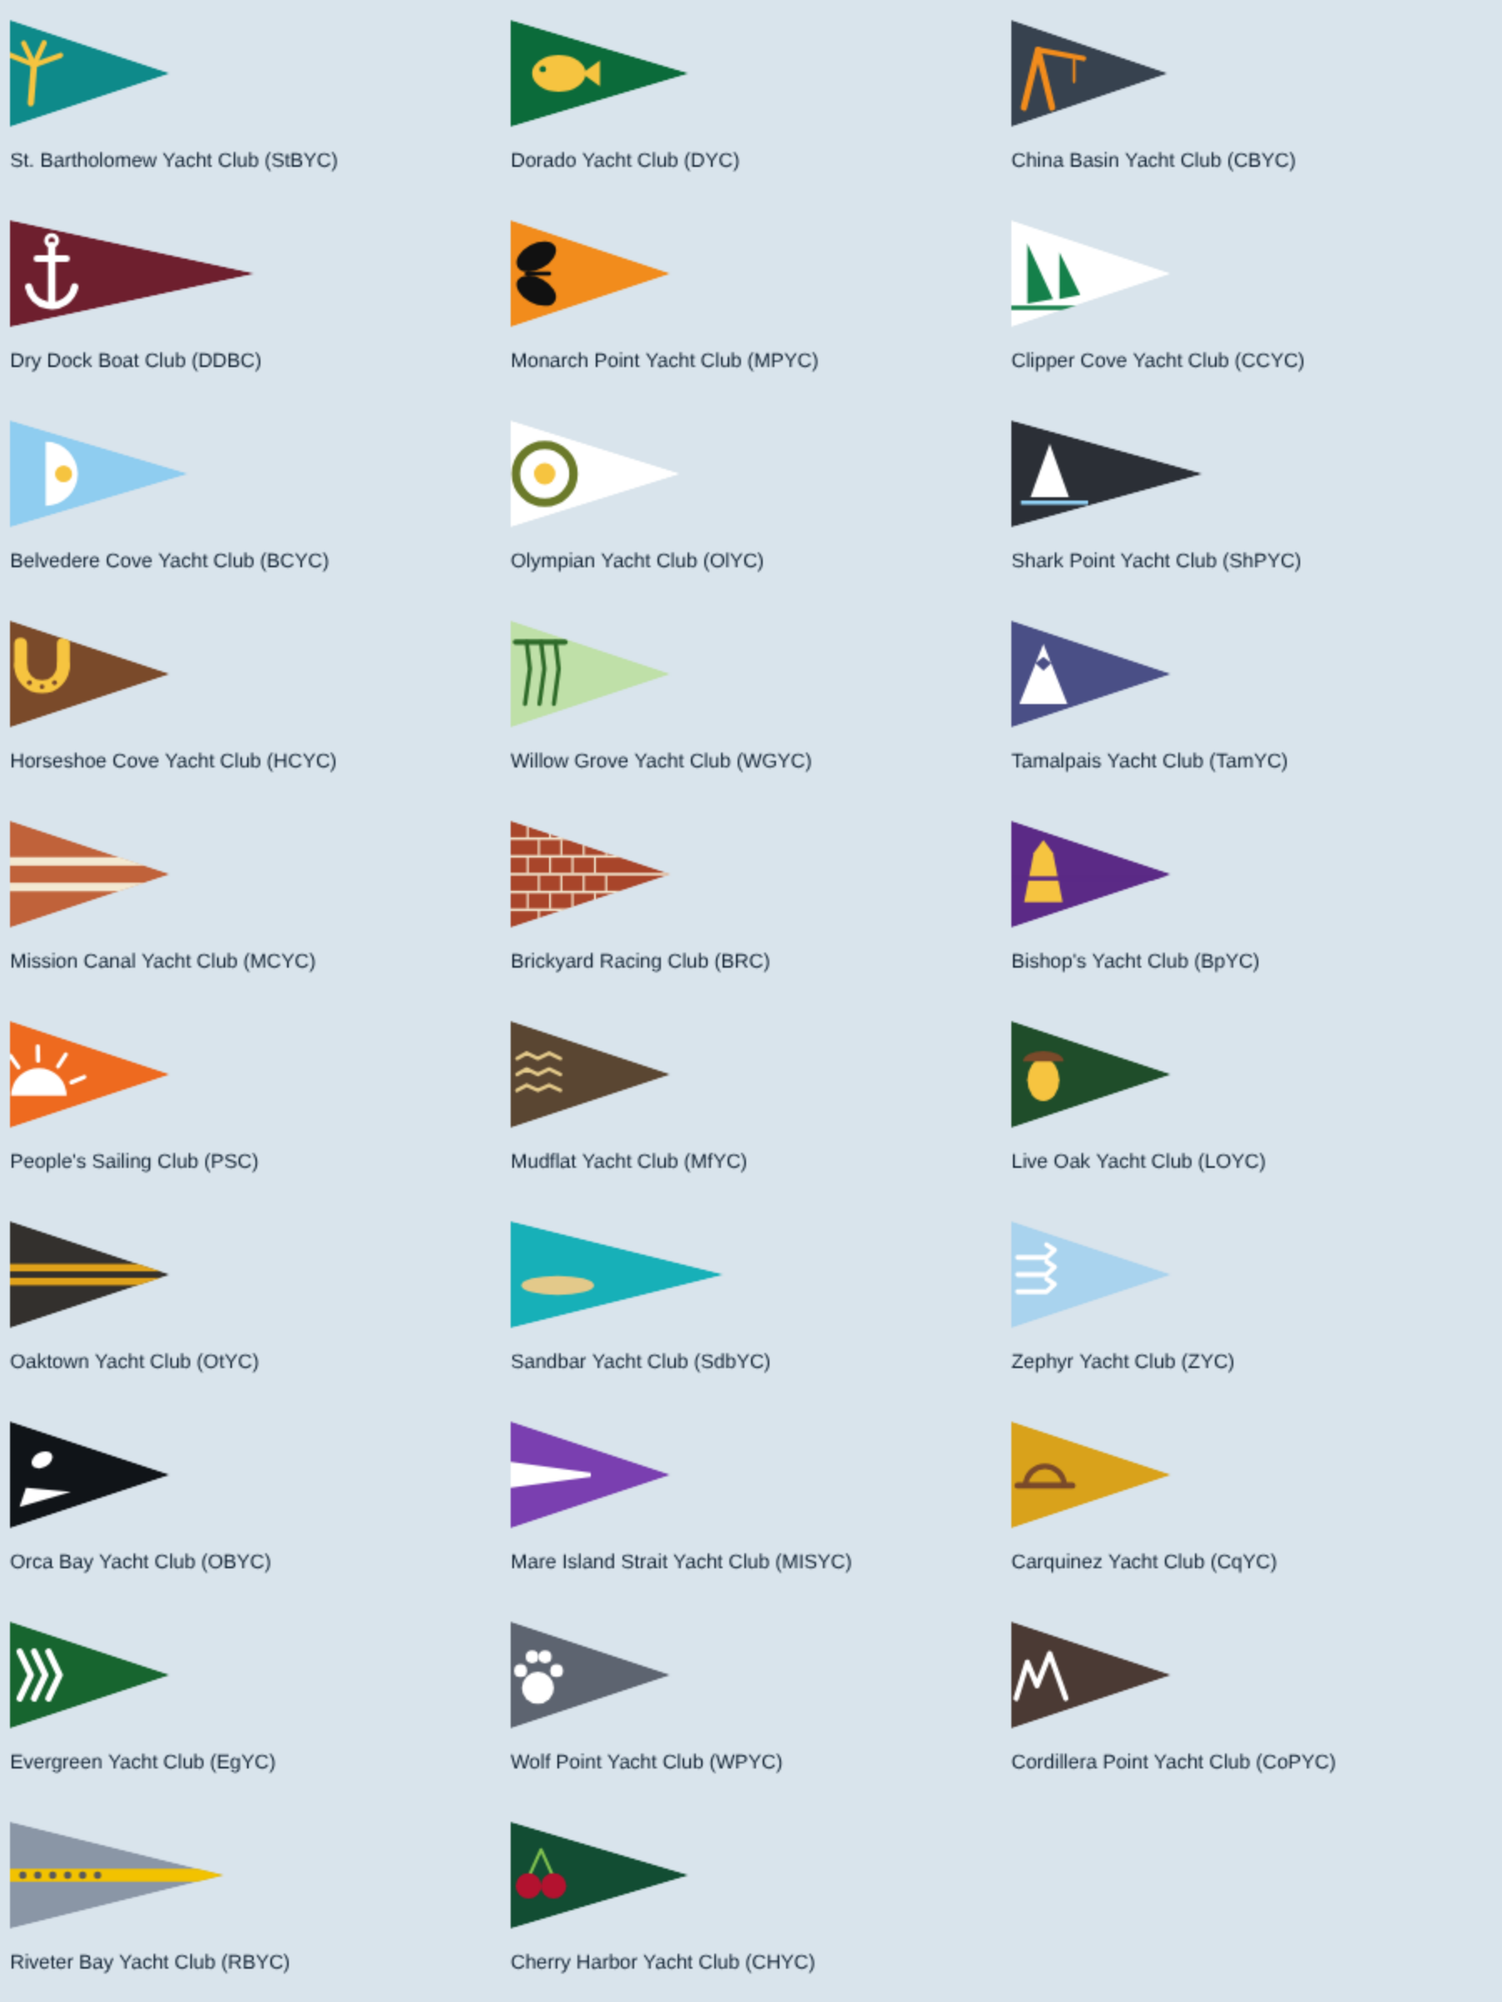
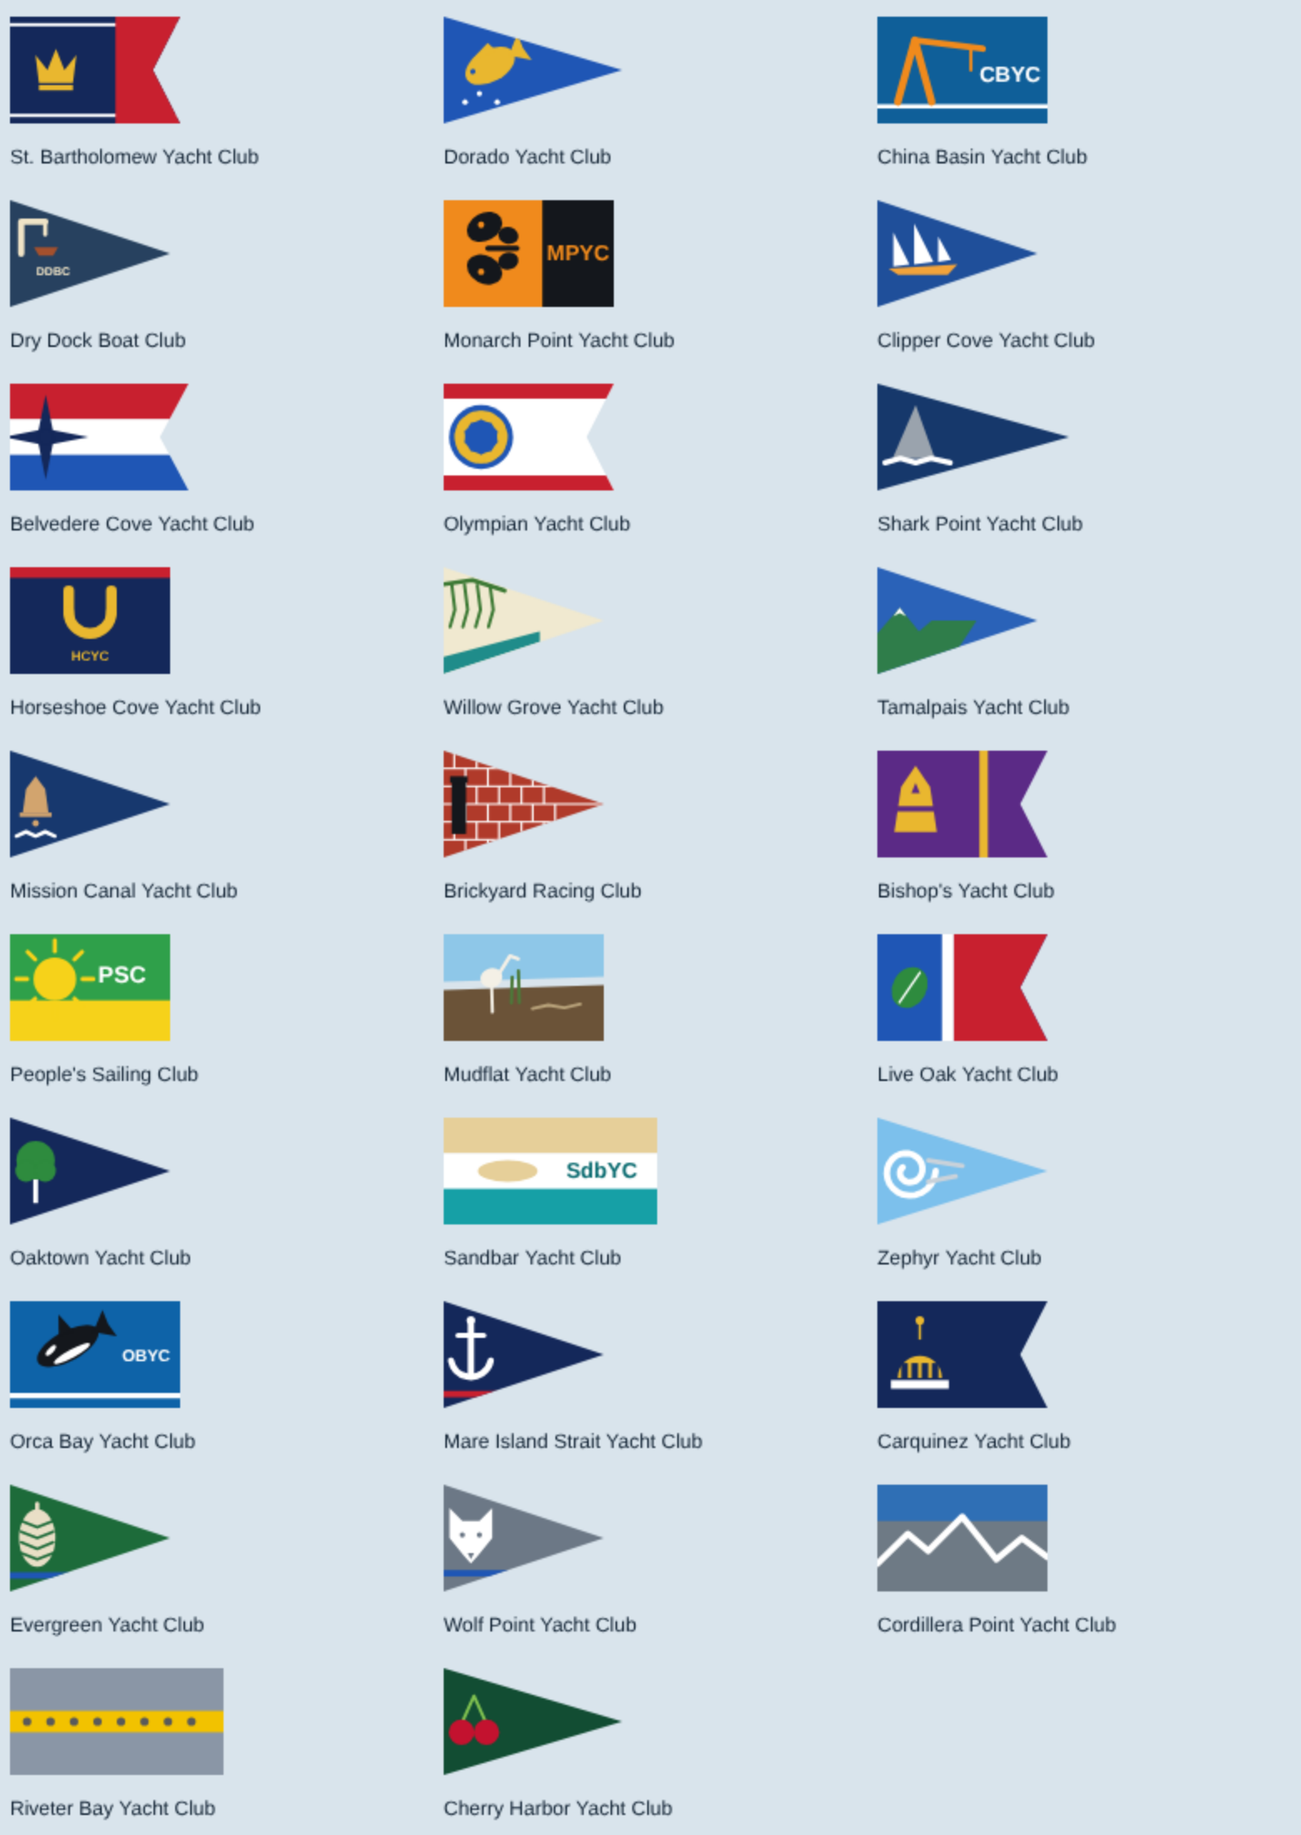
Clubs: parody burgees to the owner's style guide (swallowtails for the classic clubs, rectangles for the modern); in their own file, not yet flown
Claude-Session: https://claude.ai/code/session_012Uu5QjYRsEpBxuz7xgHWhs

Changed region(s): [[0.0, 0.0, 0.2154, 0.9891], [0.3385, 0.0, 0.5538, 0.9891], [0.6462, 0.0, 0.8923, 0.8964]]

diff --git a/src/render/burgeeArt.ts b/src/render/burgeeArt.ts
@@ -1,0 +1,90 @@
+import type { Burgee } from './burgees';
+
+/**
+ * The parody burgees (the owner's brief, 17 Nov 2026: the Burgee style guide and each club's guidance): nods to a club's
+ * age and character, never copies of the real burgee, and none of its initials or devices. The era sets the shape and
+ * palette (classic: swallowtail, red/white/blue; established: triangle; mid-century: swept, wider palette; modern: a
+ * rectangle, bold colors), two or three colors and one clear charge so each reads on a masthead and as a map icon. Initials
+ * are the parody name's, never a real club's. Not yet in BURGEES (render/burgees.ts): they go in when the owner approves.
+ */
+type G = CanvasRenderingContext2D; type P = [number, number];
+const WHITE = '#ffffff', GOLD = '#e9b72f', BLACK = '#14171c', NAVY = '#14285a', RED = '#c8202f', BLUE = '#1f56b5';
+const poly = (g: G, c: string, ...p: P[]) => { g.fillStyle = c; g.beginPath(); p.forEach(([x, y], i) => i ? g.lineTo(x, y) : g.moveTo(x, y)); g.closePath(); g.fill(); };
+const rect = (g: G, c: string, x: number, y: number, w: number, h: number) => { g.fillStyle = c; g.fillRect(x, y, w, h); };
+const fill = (g: G, W: number, H: number, c: string) => rect(g, c, 0, 0, W, H);
+const dot = (g: G, c: string, x: number, y: number, r: number) => { g.fillStyle = c; g.beginPath(); g.arc(x, y, r, 0, 7); g.fill(); };
+const oval = (g: G, c: string, x: number, y: number, rx: number, ry: number, rot = 0) => { g.fillStyle = c; g.beginPath(); g.ellipse(x, y, rx, ry, rot, 0, 7); g.fill(); };
+const stroke = (g: G, c: string, w: number, ...p: P[]) => { g.strokeStyle = c; g.lineWidth = w; g.lineJoin = 'round'; g.lineCap = 'round'; g.beginPath(); p.forEach(([x, y], i) => i ? g.lineTo(x, y) : g.moveTo(x, y)); g.stroke(); };
+const arc = (g: G, c: string, w: number, x: number, y: number, r: number, a0: number, a1: number) => { g.strokeStyle = c; g.lineWidth = w; g.lineCap = 'round'; g.beginPath(); g.arc(x, y, r, a0, a1); g.stroke(); };
+const txt = (g: G, c: string, s: string, x: number, y: number, size: number) => { g.fillStyle = c; g.font = `bold ${Math.round(size)}px sans-serif`; g.textAlign = 'center'; g.textBaseline = 'middle'; g.fillText(s, x, y); };
+
+export const PARODY_BURGEES: Burgee[] = [
+  // ---- Tier 1 · San Francisco city front
+  { id: 'stfyc', shape: 'swallow', ratio: 1.6, // classic, prestige: navy, white, red, gold; one formal charge, no initials
+    draw: (g, W, H) => { fill(g, W, H, NAVY); rect(g, WHITE, 0, H * 0.06, W, H * 0.03); rect(g, WHITE, 0, H * 0.91, W, H * 0.03); rect(g, RED, W * 0.62, 0, W * 0.38, H);
+      poly(g, GOLD, [W * 0.17, H * 0.62], [W * 0.15, H * 0.36], [W * 0.22, H * 0.5], [W * 0.27, H * 0.3], [W * 0.32, H * 0.5], [W * 0.39, H * 0.36], [W * 0.37, H * 0.62]); rect(g, GOLD, W * 0.17, H * 0.64, W * 0.2, H * 0.05); } },
+  { id: 'ggyc', shape: 'pennant', ratio: 1.67, // scrappy: blue and gold, a leaping dorado, a splash
+    draw: (g, W, H) => { fill(g, W, H, BLUE); const x = W * 0.26, y = H * 0.46; g.save(); g.translate(x, y); g.rotate(-0.5);
+      oval(g, GOLD, 0, 0, W * 0.15, H * 0.15); poly(g, GOLD, [W * 0.12, 0], [W * 0.22, -H * 0.14], [W * 0.21, 0], [W * 0.22, H * 0.14]); poly(g, GOLD, [-W * 0.08, -H * 0.13], [W * 0.05, -H * 0.2], [W * 0.07, -H * 0.1]); dot(g, BLUE, -W * 0.1, -H * 0.03, H * 0.025); g.restore();
+      for (const [dx, dy] of [[0.12, 0.8], [0.2, 0.72], [0.3, 0.8]] as P[]) dot(g, WHITE, W * dx, H * dy, H * 0.025); } },
+  { id: 'sbyc', shape: 'rect', ratio: 1.6, // modern urban: harbor blue, orange, a crane, initials
+    draw: (g, W, H) => { fill(g, W, H, '#0f5f99'); rect(g, WHITE, 0, H * 0.82, W, H * 0.04); stroke(g, '#f08a1c', H * 0.07, [W * 0.12, H * 0.8], [W * 0.22, H * 0.22], [W * 0.32, H * 0.8]); stroke(g, '#f08a1c', H * 0.06, [W * 0.22, H * 0.22], [W * 0.62, H * 0.3]); stroke(g, '#f08a1c', H * 0.03, [W * 0.55, H * 0.29], [W * 0.55, H * 0.5]); txt(g, WHITE, 'CBYC', W * 0.78, H * 0.55, H * 0.2); } },
+  { id: 'bvbc', shape: 'pennant', ratio: 1.5, // working waterfront: faded dark blue, rust, cream; a dry-dock crane, hand-painted initials
+    draw: (g, W, H) => { fill(g, W, H, '#27415f'); stroke(g, '#efe3c6', H * 0.06, [W * 0.07, H * 0.5], [W * 0.07, H * 0.2], [W * 0.22, H * 0.2]); stroke(g, '#efe3c6', H * 0.04, [W * 0.22, H * 0.2], [W * 0.22, H * 0.32]); poly(g, '#a4502d', [W * 0.15, H * 0.44], [W * 0.3, H * 0.44], [W * 0.27, H * 0.52], [W * 0.18, H * 0.52]); txt(g, '#efe3c6', 'DDBC', W * 0.27, H * 0.68, H * 0.11); } },
+  { id: 'mhpyc', shape: 'rect', ratio: 1.6, // modern: orange and black, a stylized butterfly (offset), initials
+    draw: (g, W, H) => { fill(g, W, H, '#f08a1c'); rect(g, BLACK, W * 0.58, 0, W * 0.42, H); const x = W * 0.3, y = H * 0.45; for (const s of [-1, 1]) { oval(g, BLACK, x - W * 0.06, y + s * H * 0.2, W * 0.11, H * 0.13, s * 0.5); oval(g, BLACK, x + W * 0.08, y + s * H * 0.12, W * 0.06, H * 0.08, -s * 0.3); dot(g, '#f08a1c', x - W * 0.08, y + s * H * 0.22, H * 0.03); } stroke(g, BLACK, H * 0.05, [x - W * 0.04, y], [x + W * 0.13, y]); txt(g, '#f08a1c', 'MPYC', W * 0.79, H * 0.5, H * 0.2); } },
+  { id: 'tiyc', shape: 'pennant', ratio: 1.5, // small and friendly: blue and white, a clipper under sail, one warm accent
+    draw: (g, W, H) => { fill(g, W, H, '#1f4f9a'); poly(g, WHITE, [W * 0.1, H * 0.62], [W * 0.1, H * 0.3], [W * 0.2, H * 0.6]); poly(g, WHITE, [W * 0.23, H * 0.6], [W * 0.23, H * 0.22], [W * 0.35, H * 0.58]); poly(g, WHITE, [W * 0.38, H * 0.58], [W * 0.38, H * 0.34], [W * 0.46, H * 0.56]); poly(g, '#f2a33a', [W * 0.07, H * 0.64], [W * 0.5, H * 0.6], [W * 0.44, H * 0.7], [W * 0.13, H * 0.7]); } },
+  // ---- Marin
+  { id: 'sfyc', shape: 'swallow', ratio: 1.67, // the reference classic: strict red, white, blue; a compass rose; no initials
+    draw: (g, W, H) => { rect(g, RED, 0, 0, W, H / 3); rect(g, WHITE, 0, H / 3, W, H / 3); rect(g, BLUE, 0, H * 2 / 3, W, H / 3); const x = W * 0.2, y = H / 2;
+      for (let i = 0; i < 4; i++) { const a = i * Math.PI / 2, u = [Math.sin(a), -Math.cos(a)], v = [-u[1], u[0]]; poly(g, NAVY, [x + u[0] * H * 0.4, y + u[1] * H * 0.4], [x + v[0] * H * 0.08, y + v[1] * H * 0.08], [x - v[0] * H * 0.08, y - v[1] * H * 0.08]); } dot(g, NAVY, x, y, H * 0.07); } },
+  { id: 'cyc', shape: 'swallow', ratio: 1.6, // classic: red, white, blue with gold; a laurel wreath
+    draw: (g, W, H) => { fill(g, W, H, WHITE); rect(g, RED, 0, 0, W, H * 0.14); rect(g, RED, 0, H * 0.86, W, H * 0.14); dot(g, BLUE, W * 0.22, H / 2, H * 0.3);
+      for (let i = 0; i < 10; i++) { const a = i / 10 * Math.PI * 2; oval(g, GOLD, W * 0.22 + Math.cos(a) * H * 0.2, H / 2 + Math.sin(a) * H * 0.2, H * 0.1, H * 0.05, a + Math.PI / 2); } } },
+  { id: 'tyc', shape: 'pennant', ratio: 1.8, // mid-century: deep blue and gray, a shark's fin cutting the water
+    draw: (g, W, H) => { fill(g, W, H, '#16386b'); poly(g, '#9aa3ad', [W * 0.08, H * 0.7], [W * 0.2, H * 0.2], [W * 0.3, H * 0.7]); stroke(g, WHITE, H * 0.05, [W * 0.04, H * 0.74], [W * 0.12, H * 0.7], [W * 0.2, H * 0.74], [W * 0.28, H * 0.7], [W * 0.38, H * 0.74]); } },
+  { id: 'pyc', shape: 'rect', ratio: 1.5, // modern-formal: navy, gold, a touch of red; a horseshoe, symmetrical; initials
+    draw: (g, W, H) => { fill(g, W, H, NAVY); rect(g, RED, 0, 0, W, H * 0.1); const x = W * 0.5, y = H * 0.42, r = H * 0.2; stroke(g, GOLD, H * 0.1, [x - r, y - H * 0.2], [x - r, y]); stroke(g, GOLD, H * 0.1, [x + r, y - H * 0.2], [x + r, y]); arc(g, GOLD, H * 0.1, x, y, r, 0, Math.PI); txt(g, GOLD, 'HCYC', x, H * 0.84, H * 0.13); } },
+  { id: 'ssyc', shape: 'pennant', ratio: 1.5, // artsy: willow green, teal, cream; a drooping willow branch
+    draw: (g, W, H) => { fill(g, W, H, '#f0e9d0'); poly(g, '#1f8c8a', [0, H], [W * 0.6, H * 0.7], [W * 0.6, H * 0.6], [0, H * 0.84]); stroke(g, '#3d7a35', H * 0.04, [0, H * 0.16], [W * 0.18, H * 0.12], [W * 0.38, H * 0.22]); for (const x of [0.05, 0.13, 0.21, 0.29]) stroke(g, '#3d7a35', H * 0.03, [W * x, H * (0.15 + x * 0.1)], [W * (x + 0.02), H * 0.4], [W * (x - 0.01), H * 0.56]); } },
+  { id: 'myc', shape: 'pennant', ratio: 1.5, // established: blue, white and mountain green; a mountain
+    draw: (g, W, H) => { fill(g, W, H, '#2a62b8'); poly(g, '#2f7d4a', [0, H], [0, H * 0.62], [W * 0.14, H * 0.38], [W * 0.26, H * 0.6], [W * 0.34, H * 0.5], [W * 0.62, H * 0.5], [W * 0.4, H]); poly(g, WHITE, [W * 0.1, H * 0.46], [W * 0.14, H * 0.38], [W * 0.18, H * 0.46], [W * 0.14, H * 0.43]); } },
+  { id: 'sryc', shape: 'pennant', ratio: 1.5, // quiet: deep blue, white, a sandstone bell over a canal ripple
+    draw: (g, W, H) => { fill(g, W, H, '#17386e'); poly(g, '#d2a46e', [W * 0.08, H * 0.58], [W * 0.1, H * 0.36], [W * 0.16, H * 0.24], [W * 0.22, H * 0.36], [W * 0.24, H * 0.58]); rect(g, '#d2a46e', W * 0.06, H * 0.58, W * 0.2, H * 0.04); dot(g, '#d2a46e', W * 0.16, H * 0.68, H * 0.03); stroke(g, WHITE, H * 0.035, [W * 0.04, H * 0.8], [W * 0.1, H * 0.76], [W * 0.16, H * 0.8], [W * 0.22, H * 0.76], [W * 0.28, H * 0.8]); } },
+  // ---- East Bay
+  { id: 'ryc', shape: 'pennant', ratio: 1.5, // DIY: brick red, white, black; bricks and a kiln chimney
+    draw: (g, W, H) => { fill(g, W, H, '#b03a2a'); for (let r = 1; r < 6; r++) rect(g, WHITE, 0, H * r / 6 - H * 0.008, W, H * 0.016); for (let r = 0; r < 6; r++) for (let c = 0; c < 5; c++) rect(g, WHITE, W * (0.06 + c * 0.14 + (r % 2) * 0.07), H * r / 6, W * 0.012, H / 6); rect(g, BLACK, W * 0.05, H * 0.28, W * 0.09, H * 0.5); rect(g, BLACK, W * 0.04, H * 0.24, W * 0.11, H * 0.06); } },
+  { id: 'byc', shape: 'swallow', ratio: 1.6, // classic with a wink: purple and gold; a bishop's mitre
+    draw: (g, W, H) => { fill(g, W, H, '#5b2a86'); rect(g, GOLD, W * 0.6, 0, W * 0.05, H); poly(g, GOLD, [W * 0.1, H * 0.76], [W * 0.14, H * 0.34], [W * 0.225, H * 0.14], [W * 0.31, H * 0.34], [W * 0.35, H * 0.76]); rect(g, '#5b2a86', W * 0.1, H * 0.52, W * 0.25, H * 0.05); poly(g, '#5b2a86', [W * 0.225, H * 0.3], [W * 0.25, H * 0.4], [W * 0.2, H * 0.4]); } },
+  { id: 'csc', shape: 'rect', ratio: 1.5, // modern co-op: bright green and yellow, a sun; initials
+    draw: (g, W, H) => { fill(g, W, H, '#2fa04a'); rect(g, '#f6d21a', 0, H * 0.62, W, H * 0.38); dot(g, '#f6d21a', W * 0.28, H * 0.42, H * 0.2); for (let i = 0; i < 8; i++) { const a = i / 8 * Math.PI * 2; stroke(g, '#f6d21a', H * 0.04, [W * 0.28 + Math.cos(a) * H * 0.26, H * 0.42 + Math.sin(a) * H * 0.26], [W * 0.28 + Math.cos(a) * H * 0.36, H * 0.42 + Math.sin(a) * H * 0.36]); } txt(g, WHITE, 'PSC', W * 0.7, H * 0.4, H * 0.22); } },
+  { id: 'emyc', shape: 'rect', ratio: 1.5, // small, informal, a little crooked: mud brown, reed green, sky blue; a wading bird
+    draw: (g, W, H) => { g.save(); g.translate(W / 2, H / 2); g.rotate(-0.03); g.translate(-W / 2, -H / 2); rect(g, '#8ec7e8', -5, -5, W + 10, H * 0.5); rect(g, '#6b5338', -5, H * 0.5, W + 10, H * 0.6); const x = W * 0.3; stroke(g, '#4c7a3a', H * 0.03, [x + W * 0.12, H * 0.64], [x + W * 0.13, H * 0.4]); stroke(g, '#4c7a3a', H * 0.03, [x + W * 0.17, H * 0.64], [x + W * 0.17, H * 0.34]); oval(g, '#f4f0e6', x, H * 0.4, W * 0.07, H * 0.09, -0.3); stroke(g, '#f4f0e6', H * 0.035, [x + W * 0.05, H * 0.36], [x + W * 0.12, H * 0.2], [x + W * 0.17, H * 0.23]); stroke(g, '#f4f0e6', H * 0.03, [x, H * 0.48], [x, H * 0.72]); stroke(g, '#b8a27a', H * 0.03, [W * 0.55, H * 0.7], [W * 0.65, H * 0.67], [W * 0.75, H * 0.7], [W * 0.85, H * 0.67]); g.restore(); } },
+  { id: 'eyc', shape: 'swallow', ratio: 1.6, // classic: red, white and blue, one green oak leaf
+    draw: (g, W, H) => { fill(g, W, H, BLUE); rect(g, WHITE, W * 0.38, 0, W * 0.07, H); rect(g, RED, W * 0.45, 0, W * 0.55, H); oval(g, '#2e8b3e', W * 0.19, H / 2, W * 0.1, H * 0.2, 0.5); stroke(g, '#fff', H * 0.02, [W * 0.13, H * 0.64], [W * 0.25, H * 0.36]); } },
+  { id: 'oyc', shape: 'pennant', ratio: 1.5, // established: navy, white and green; a stylized oak tree
+    draw: (g, W, H) => { fill(g, W, H, NAVY); rect(g, WHITE, W * 0.145, H * 0.5, W * 0.03, H * 0.3); dot(g, '#2e8b3e', W * 0.16, H * 0.4, H * 0.18); dot(g, '#2e8b3e', W * 0.1, H * 0.5, H * 0.1); dot(g, '#2e8b3e', W * 0.22, H * 0.5, H * 0.1); } },
+  { id: 'iyc', shape: 'rect', ratio: 2, // modern, thrifty: sand, teal, white stripes; a sandbar; initials
+    draw: (g, W, H) => { rect(g, '#e6cf99', 0, 0, W, H / 3); rect(g, WHITE, 0, H / 3, W, H / 3); rect(g, '#16a0a6', 0, H * 2 / 3, W, H / 3); oval(g, '#e6cf99', W * 0.3, H / 2, W * 0.14, H * 0.1); txt(g, '#0d6d72', 'SdbYC', W * 0.74, H / 2, H * 0.2); } },
+  { id: 'aeyc', shape: 'pennant', ratio: 1.6, // mid-century, swept: sky blue and white with a silver wind swirl
+    draw: (g, W, H) => { fill(g, W, H, '#7cc0ec'); const pts: P[] = []; for (let i = 0; i <= 40; i++) { const a = i / 40 * Math.PI * 3.2, r = H * (0.06 + 0.2 * (1 - i / 40)); pts.push([W * 0.18 + Math.cos(a) * r, H * 0.5 + Math.sin(a) * r]); } stroke(g, WHITE, H * 0.06, ...pts); stroke(g, '#c9d2da', H * 0.045, [W * 0.3, H * 0.4], [W * 0.5, H * 0.45]); stroke(g, '#c9d2da', H * 0.045, [W * 0.3, H * 0.6], [W * 0.46, H * 0.55]); } },
+  { id: 'bbyc', shape: 'rect', ratio: 1.6, // modern: black, white and ocean blue; a leaping orca; initials
+    draw: (g, W, H) => { fill(g, W, H, '#0e63a8'); const x = W * 0.34, y = H * 0.42; g.save(); g.translate(x, y); g.rotate(-0.5); oval(g, BLACK, 0, 0, W * 0.2, H * 0.14); poly(g, BLACK, [W * 0.17, 0], [W * 0.28, -H * 0.14], [W * 0.27, 0], [W * 0.28, H * 0.14]); poly(g, BLACK, [-W * 0.02, -H * 0.12], [W * 0.04, -H * 0.3], [W * 0.07, -H * 0.1]); oval(g, WHITE, -W * 0.1, -H * 0.04, W * 0.04, H * 0.025, -0.3); oval(g, WHITE, 0, H * 0.08, W * 0.12, H * 0.04); g.restore(); rect(g, WHITE, 0, H * 0.86, W, H * 0.05); txt(g, WHITE, 'OBYC', W * 0.8, H * 0.52, H * 0.16); } },
+  // ---- North Bay / Peninsula
+  { id: 'vyc', shape: 'pennant', ratio: 1.5, // naval flavor: navy, white, red; an anchor
+    draw: (g, W, H) => { fill(g, W, H, NAVY); rect(g, RED, 0, H * 0.84, W, H * 0.06); const x = W * 0.17; stroke(g, WHITE, H * 0.06, [x, H * 0.22], [x, H * 0.7]); stroke(g, WHITE, H * 0.05, [x - H * 0.12, H * 0.32], [x + H * 0.12, H * 0.32]); arc(g, WHITE, H * 0.06, x, H * 0.52, H * 0.19, 0.2, Math.PI - 0.2); dot(g, WHITE, x, H * 0.18, H * 0.04); } },
+  { id: 'bnyc', shape: 'swallow', ratio: 1.6, // history-minded: navy, white and gold; a capitol dome
+    draw: (g, W, H) => { fill(g, W, H, NAVY); rect(g, WHITE, W * 0.08, H * 0.74, W * 0.34, H * 0.08); g.fillStyle = GOLD; g.beginPath(); g.arc(W * 0.25, H * 0.72, W * 0.13, Math.PI, 0); g.fill(); rect(g, GOLD, W * 0.243, H * 0.2, W * 0.014, H * 0.16); dot(g, GOLD, W * 0.25, H * 0.18, H * 0.04); for (const dx of [-0.09, -0.03, 0.03, 0.09]) rect(g, NAVY, W * (0.25 + dx) - 2, H * 0.58, 4, H * 0.14); } },
+  { id: 'seqyc', shape: 'pennant', ratio: 1.5, // established: green, white and blue; a pine cone
+    draw: (g, W, H) => { fill(g, W, H, '#1d6b3a'); rect(g, BLUE, 0, H * 0.82, W, H * 0.06); const x = W * 0.17; oval(g, '#e9dfc6', x, H * 0.5, H * 0.17, H * 0.27); for (let r = 0; r < 4; r++) stroke(g, '#1d6b3a', H * 0.025, [x - H * 0.15, H * (0.34 + r * 0.1)], [x, H * (0.4 + r * 0.1)], [x + H * 0.15, H * (0.34 + r * 0.1)]); stroke(g, '#e9dfc6', H * 0.04, [x, H * 0.24], [x, H * 0.18]); } },
+  { id: 'cpyc', shape: 'pennant', ratio: 1.5, // mid-century: steel gray, blue and white; a wolf's head
+    draw: (g, W, H) => { fill(g, W, H, '#6c7886'); rect(g, BLUE, 0, H * 0.8, W, H * 0.06); const x = W * 0.17; poly(g, WHITE, [x - H * 0.2, H * 0.22], [x - H * 0.08, H * 0.34], [x + H * 0.08, H * 0.34], [x + H * 0.2, H * 0.22], [x + H * 0.2, H * 0.5], [x + H * 0.07, H * 0.66], [x, H * 0.74], [x - H * 0.07, H * 0.66], [x - H * 0.2, H * 0.5]); dot(g, '#6c7886', x - H * 0.08, H * 0.47, H * 0.025); dot(g, '#6c7886', x + H * 0.08, H * 0.47, H * 0.025); poly(g, '#6c7886', [x - H * 0.03, H * 0.64], [x + H * 0.03, H * 0.64], [x, H * 0.7]); } },
+  { id: 'spyc', shape: 'rect', ratio: 1.6, // modern, minimal: mountain gray, blue and white; a ridge line
+    draw: (g, W, H) => { fill(g, W, H, '#6e7a85'); rect(g, '#2f6fb5', 0, 0, W, H * 0.34); stroke(g, WHITE, H * 0.06, [0, H * 0.74], [W * 0.18, H * 0.46], [W * 0.3, H * 0.62], [W * 0.5, H * 0.3], [W * 0.7, H * 0.7], [W * 0.85, H * 0.5], [W, H * 0.68]); } },
+  // ---- Tier 2 (no guidance in the file: kept simple, two colors and one charge)
+  { id: 'mbyc', shape: 'rect', ratio: 2,
+    draw: (g, W, H) => { fill(g, W, H, '#8a96a6'); rect(g, '#f2c200', 0, H * 0.4, W, H * 0.2); for (let i = 0; i < 8; i++) dot(g, '#5a5a5a', W * (0.08 + i * 0.11), H / 2, H * 0.04); } },
+  { id: 'slyc', shape: 'pennant', ratio: 1.67,
+    draw: (g, W, H) => { fill(g, W, H, '#124d33'); stroke(g, '#7fc050', H * 0.03, [W * 0.1, H * 0.52], [W * 0.17, H * 0.26], [W * 0.24, H * 0.52]); dot(g, '#c3122f', W * 0.1, H * 0.6, H * 0.12); dot(g, '#c3122f', W * 0.24, H * 0.6, H * 0.12); } }
+];

diff --git a/src/render/burgees.ts b/src/render/burgees.ts
@@ -9,6 +9,8 @@ export interface Burgee {
   id: string; club?: string;
   /** Fly length over hoist (3:2 unless the burgee is longer). */
   ratio?: number;
+  /** Its cut: a triangular pennant (the default), a swallowtail (a V cut in the fly) or a rectangle. */
+  shape?: 'pennant' | 'swallow' | 'rect';
   draw: (g: CanvasRenderingContext2D, W: number, H: number) => void;
 }
 
@@ -25,7 +27,11 @@ export function burgeeCanvas(id: string): HTMLCanvasElement | null {
   const b = BURGEES.find(x => x.id === id); if (!b) return null;
   const H = 128, W = Math.round(H * (b.ratio ?? 1.5)), c = document.createElement('canvas'); c.width = W; c.height = H;
   const g = c.getContext('2d')!;
-  g.save(); g.beginPath(); g.moveTo(0, 0); g.lineTo(0, H); g.lineTo(W, H / 2); g.closePath(); g.clip();
+  g.save(); g.beginPath();
+  if (b.shape === 'rect') g.rect(0, 0, W, H);
+  else if (b.shape === 'swallow') { g.moveTo(0, 0); g.lineTo(W, 0); g.lineTo(W * 0.84, H / 2); g.lineTo(W, H); g.lineTo(0, H); }
+  else { g.moveTo(0, 0); g.lineTo(0, H); g.lineTo(W, H / 2); }
+  g.closePath(); g.clip();
   b.draw(g, W, H); g.restore();
   return c;
 }
